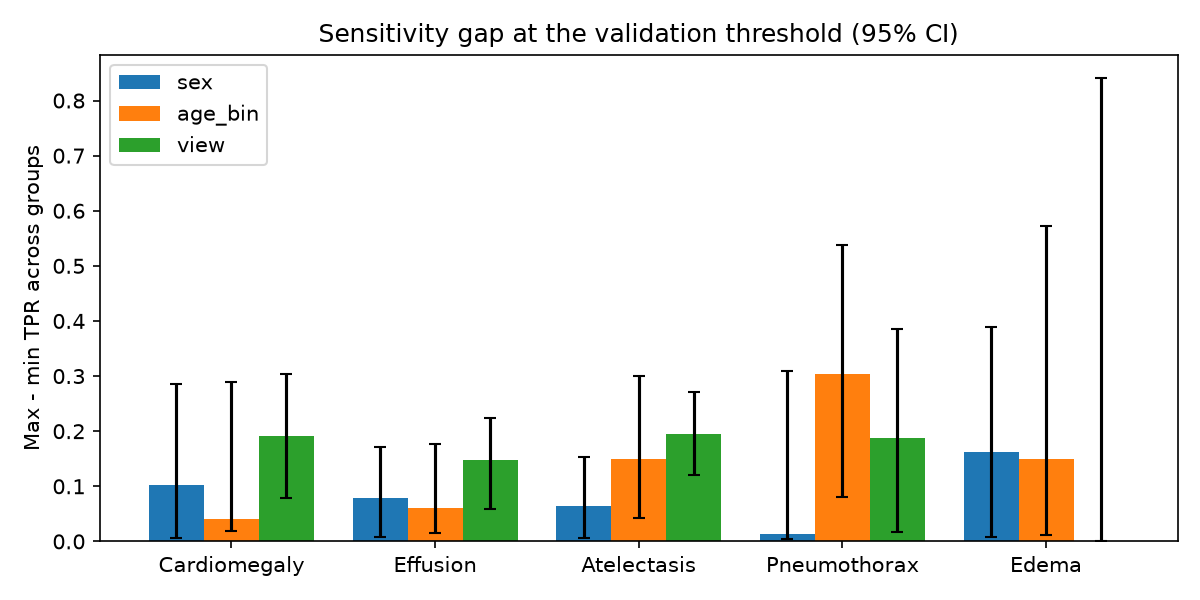
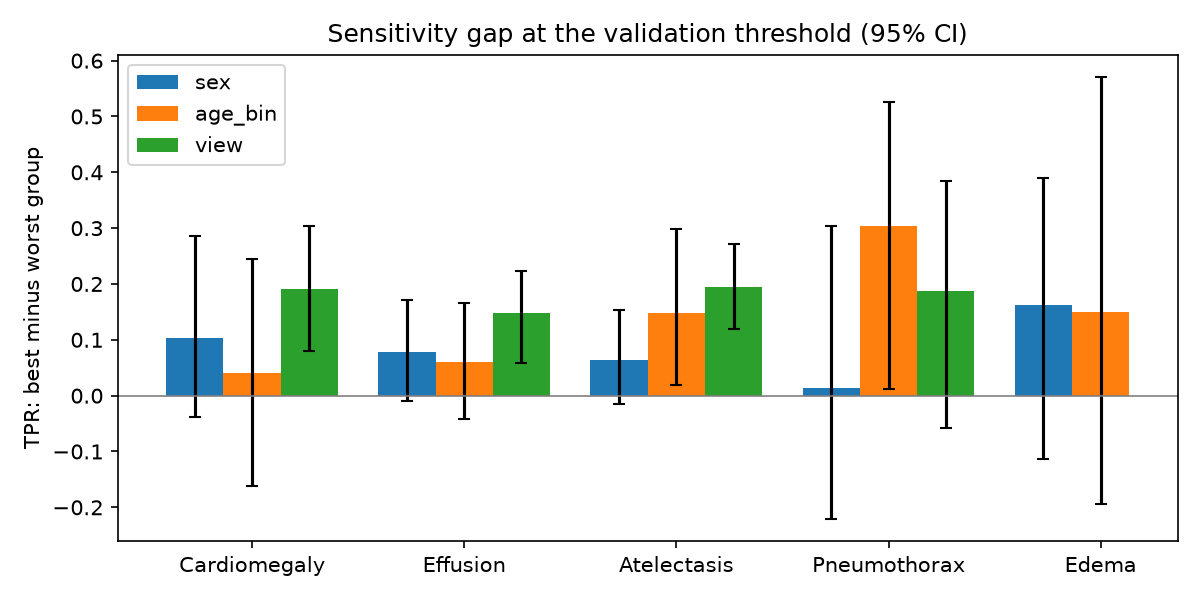
Fix gap CIs: signed best-minus-worst difference

diff --git a/src/fairness_audit.py b/src/fairness_audit.py
@@ -12,7 +12,8 @@ For each finding and each group (sex, age bin, view) it reports:
 Outputs:
   thresholds.csv        threshold per finding (from validation)
   subgroup_metrics.csv  one row per finding x group, with CIs
-  gaps.csv              max-min gap per finding and attribute, with CIs
+  gaps.csv              best-minus-worst group difference per finding and attribute, with CIs
+                        (signed difference for a fixed pair, so the CI can include 0)
   auroc_by_sex.png, tpr_gap.png
 """
 import argparse
@@ -115,59 +116,69 @@ def main():
                 rows.append({"finding": f, "attribute": a, "group": grp, **r.to_dict()})
     point = pd.DataFrame(rows)
 
-    def gaps_of(table):
-        res = []
-        for (f, a), t in table.groupby(["finding", "attribute"]):
-            res.append({"finding": f, "attribute": a,
-                        "auroc_gap": t["auroc"].max() - t["auroc"].min(),
-                        "tpr_gap": t["tpr"].max() - t["tpr"].min(),
-                        "fpr_gap": t["fpr"].max() - t["fpr"].min()})
-        return pd.DataFrame(res)
-
-    point_gaps = gaps_of(point)
-
     # 3. Patient-level bootstrap for confidence intervals.
     print(f"Bootstrapping {args.n_boot} resamples (a few minutes on a laptop)...")
-    boot_rows, boot_gaps = [], []
+    boot_rows = []
     for b, sample in enumerate(patient_bootstrap(test, args.n_boot, args.seed)):
-        rs = []
         for f in FINDINGS:
             for a in ATTRIBUTES:
                 for grp, r in fast_group_metrics(sample, f, a, thr[f]).items():
-                    rs.append({"finding": f, "attribute": a, "group": grp, "b": b, **r})
-        rs = pd.DataFrame(rs)
-        boot_rows.append(rs)
-        bg = gaps_of(rs)
-        bg["b"] = b
-        boot_gaps.append(bg)
-    boot = pd.concat(boot_rows)
-    bgap = pd.concat(boot_gaps)
+                    boot_rows.append({"finding": f, "attribute": a, "group": grp, "b": b, **r})
+    boot = pd.DataFrame(boot_rows)
 
-    def add_ci(point_df, boot_df, keys, cols):
-        lo = boot_df.groupby(keys)[cols].quantile(0.025).add_suffix("_lo")
-        hi = boot_df.groupby(keys)[cols].quantile(0.975).add_suffix("_hi")
-        return point_df.set_index(keys).join(lo).join(hi).reset_index()
-
-    sub = add_ci(point, boot, ["finding", "attribute", "group"], ["auroc", "tpr", "fpr"])
-    gaps = add_ci(point_gaps, bgap, ["finding", "attribute"], ["auroc_gap", "tpr_gap", "fpr_gap"])
+    lo = boot.groupby(["finding", "attribute", "group"])[["auroc", "tpr", "fpr"]].quantile(0.025).add_suffix("_lo")
+    hi = boot.groupby(["finding", "attribute", "group"])[["auroc", "tpr", "fpr"]].quantile(0.975).add_suffix("_hi")
+    sub = point.set_index(["finding", "attribute", "group"]).join(lo).join(hi).reset_index()
     sub.round(4).to_csv(out / "subgroup_metrics.csv", index=False)
+
+    # Gap = SIGNED difference between the best and the worst group (pair fixed on the full test set).
+    # Its bootstrap CI can cross 0; if it does, the gap may be noise.
+    gap_rows = []
+    for (f, a), t in point.groupby(["finding", "attribute"]):
+        row = {"finding": f, "attribute": a}
+        for m in ["tpr", "auroc", "fpr"]:
+            tt = t.dropna(subset=[m])
+            if len(tt) < 2:
+                row.update({f"{m}_gap": np.nan, f"{m}_high_group": "", f"{m}_low_group": "",
+                            f"{m}_gap_lo": np.nan, f"{m}_gap_hi": np.nan})
+                continue
+            g_hi = tt.loc[tt[m].idxmax(), "group"]
+            g_lo = tt.loc[tt[m].idxmin(), "group"]
+            bb = boot[(boot["finding"] == f) & (boot["attribute"] == a)].pivot(index="b", columns="group", values=m)
+            diff = (bb[g_hi] - bb[g_lo]).dropna()
+            row.update({f"{m}_gap": tt[m].max() - tt[m].min(), f"{m}_high_group": g_hi, f"{m}_low_group": g_lo,
+                        f"{m}_gap_lo": diff.quantile(0.025), f"{m}_gap_hi": diff.quantile(0.975)})
+        gap_rows.append(row)
+    gaps = pd.DataFrame(gap_rows)
+    gaps["tpr_gap_significant"] = gaps["tpr_gap_lo"] > 0
+    gaps["auroc_gap_significant"] = gaps["auroc_gap_lo"] > 0
     gaps.round(4).to_csv(out / "gaps.csv", index=False)
 
     # 4. Readable summary.
     print("\nThresholds (validation, ~{:.0%} sensitivity):".format(args.target_sensitivity))
     for f, t in thr.items():
         print(f"  {f:13s} {t:.3f}")
-    print("\nTPR (sensitivity) by sex, with 95% CI:")
-    s = sub[sub["attribute"] == "sex"]
-    for _, r in s.iterrows():
-        print(f"  {r['finding']:13s} {r['group']}: TPR {r['tpr']:.3f} [{r['tpr_lo']:.3f}, {r['tpr_hi']:.3f}]"
-              f"  AUROC {r['auroc']:.3f}  positives {int(r['n_pos'])}")
-    print("\nLargest gaps (TPR, with 95% CI):")
+    names = {"sex": "sex", "age_bin": "age", "view": "view"}
+    for a in ATTRIBUTES:
+        print(f"\nBy {names[a]} (TPR = sensitivity, FPR = false alarms; 95% CI):")
+        t = sub[sub["attribute"] == a]
+        for _, r in t.iterrows():
+            tpr = "   n/a (too few positives)" if np.isnan(r["tpr"]) else \
+                f"{r['tpr']:.3f} [{r['tpr_lo']:.3f}, {r['tpr_hi']:.3f}]"
+            print(f"  {r['finding']:13s} {str(r['group']):6s} TPR {tpr}  FPR {r['fpr']:.3f}  "
+                  f"AUROC {r['auroc']:.3f}  positives {int(r['n_pos'])}/{int(r['n'])}")
+    print("\nTPR gaps, best minus worst group (95% CI). REAL = CI does not include 0:")
     for _, r in gaps.sort_values("tpr_gap", ascending=False).iterrows():
-        print(f"  {r['finding']:13s} {r['attribute']:8s} TPR gap {r['tpr_gap']:.3f} "
-              f"[{r['tpr_gap_lo']:.3f}, {r['tpr_gap_hi']:.3f}]   AUROC gap {r['auroc_gap']:.3f}")
+        if np.isnan(r["tpr_gap"]):
+            print(f"  {r['finding']:13s} {r['attribute']:8s} not enough positives in 2+ groups")
+            continue
+        flag = "REAL" if r["tpr_gap_significant"] else "could be noise"
+        print(f"  {r['finding']:13s} {r['attribute']:8s} {str(r['tpr_high_group']):>5s} > {str(r['tpr_low_group']):5s} "
+              f"by {r['tpr_gap']:.3f} [{r['tpr_gap_lo']:+.3f}, {r['tpr_gap_hi']:+.3f}]  {flag}   "
+              f"(AUROC gap {r['auroc_gap']:.3f} [{r['auroc_gap_lo']:+.3f}, {r['auroc_gap_hi']:+.3f}])")
 
     # 5. Plots for the README.
+    s = sub[sub["attribute"] == "sex"]
     fig, ax = plt.subplots(figsize=(8, 4))
     width = 0.38
     x = np.arange(len(FINDINGS))
@@ -190,7 +201,8 @@ def main():
         err = [t["tpr_gap"] - t["tpr_gap_lo"], t["tpr_gap_hi"] - t["tpr_gap"]]
         ax.bar(x + (i - 1) * 0.27, t["tpr_gap"], 0.27, yerr=err, capsize=3, label=a)
     ax.set_xticks(x, FINDINGS)
-    ax.set_ylabel("Max - min TPR across groups")
+    ax.axhline(0, color="grey", lw=0.8)
+    ax.set_ylabel("TPR: best minus worst group")
     ax.set_title("Sensitivity gap at the validation threshold (95% CI)")
     ax.legend()
     fig.tight_layout()
